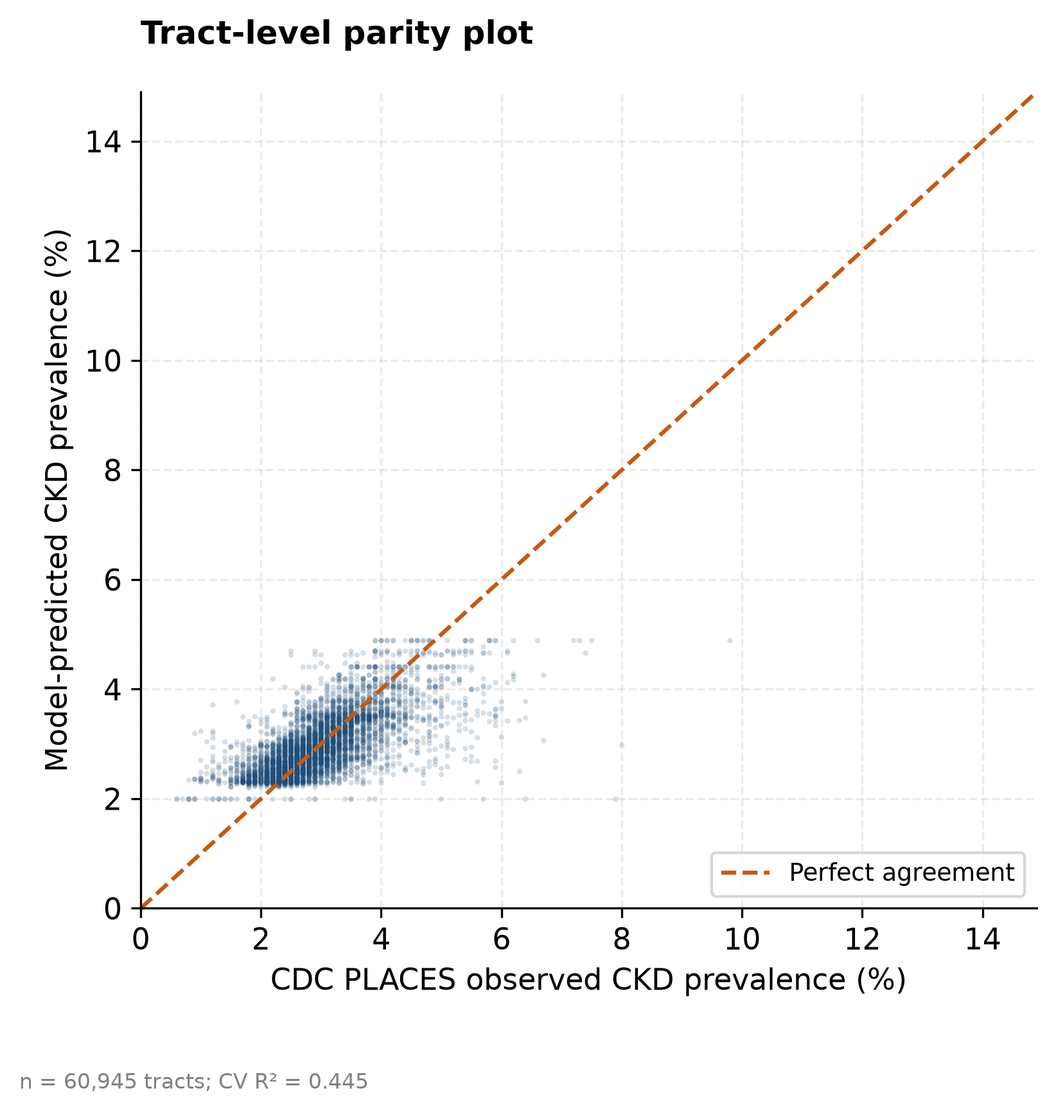
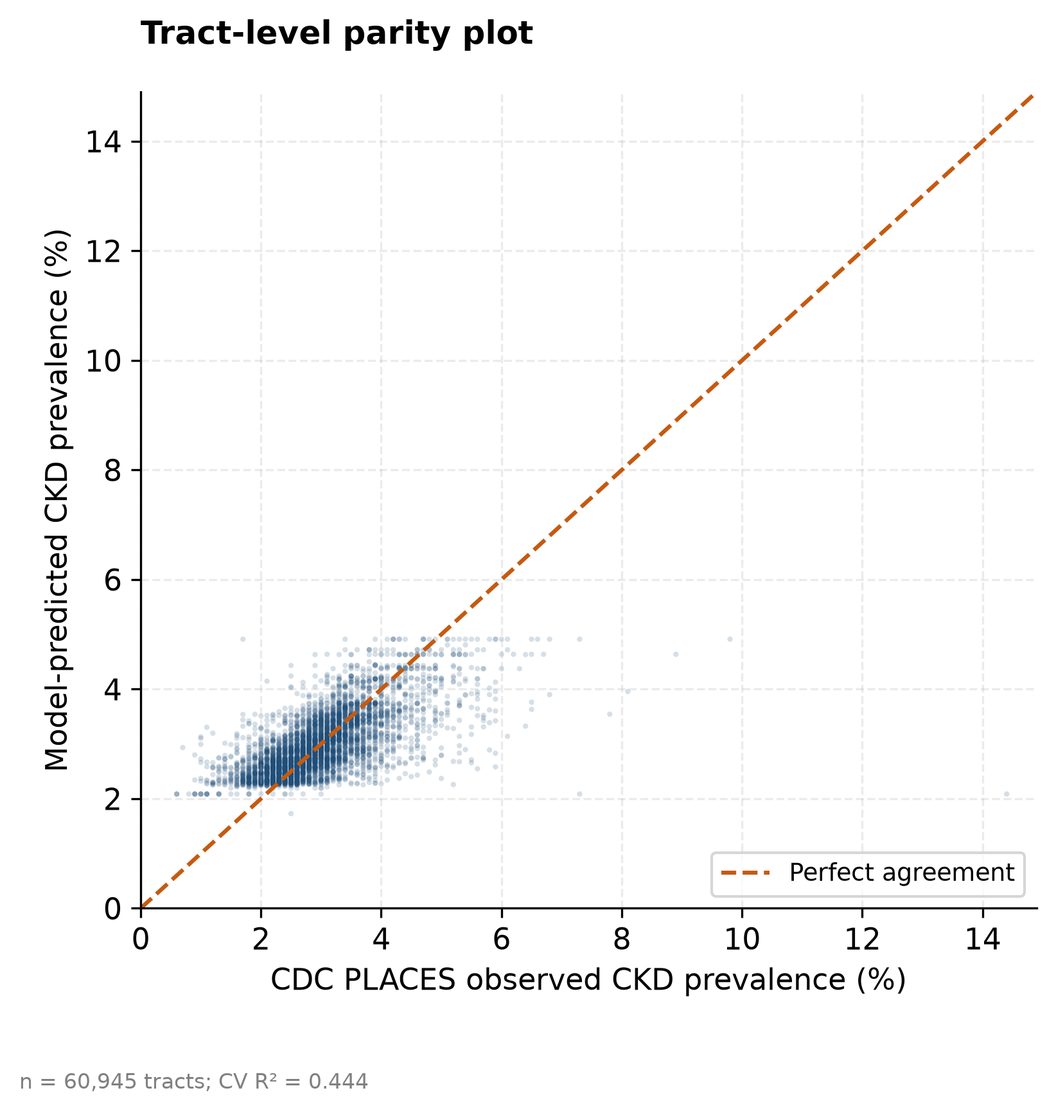
Stage 1: sort tracts before cross-validation; store metrics at 6 dp
The CDC PLACES export returns rows in an unstable order, and KFold folds
depend on row order, so Stage 1 results changed between downloads. Tracts
are now ordered by FIPS code after the join; outputs are identical for
differently ordered downloads. Manuscript Stage 1 values updated.

Changed region(s): [[0.1551, 0.5612, 0.5274, 0.7171]]

diff --git a/src/train_ecological_model.py b/src/train_ecological_model.py
@@ -166,6 +166,9 @@ def build_dataset():
     print(f"    ADI tract rows: {len(adi):,}")
 
     df = places.merge(adi, on="TractFIPS", how="inner")
+    # The PLACES export does not return rows in a stable order, and the CV
+    # folds depend on row order; sort so results do not depend on the download
+    df = df.sort_values("TractFIPS").reset_index(drop=True)
     print(f"\n  Joined PLACES ∩ ADI: {len(df):,} tracts")
     return df, source
 
@@ -197,8 +200,8 @@ def random_5fold(df):
         r2  = r2_score(y[va], pred)
         mae = mean_absolute_error(y[va], pred)
         rmse = np.sqrt(mean_squared_error(y[va], pred))
-        rows.append({"fold": k, "r2": round(r2, 4),
-                      "mae": round(mae, 4), "rmse": round(rmse, 4)})
+        rows.append({"fold": k, "r2": round(r2, 6),
+                      "mae": round(mae, 6), "rmse": round(rmse, 6)})
         print(f"    Fold {k}: R²={r2:.4f}  MAE={mae:.4f}  RMSE={rmse:.4f}")
     df["oof_pred"] = oof
     return pd.DataFrame(rows), df
@@ -230,13 +233,13 @@ def leave_one_region_out(df):
         rows.append({
             "held_out_region": region,
             "n_test": int(test_mask.sum()),
-            "r2":   round(r2_score(y_te, pred), 4),
-            "mae":  round(mean_absolute_error(y_te, pred), 4),
-            "rmse": round(np.sqrt(mean_squared_error(y_te, pred)), 4),
-            "calibration_slope": round(float(slope), 4),
-            "calibration_intercept": round(float(intercept), 4),
-            "calibration_slope_tract": round(float(t_slope), 4),
-            "calibration_intercept_tract": round(float(t_int), 4),
+            "r2":   round(r2_score(y_te, pred), 6),
+            "mae":  round(mean_absolute_error(y_te, pred), 6),
+            "rmse": round(np.sqrt(mean_squared_error(y_te, pred)), 6),
+            "calibration_slope": round(float(slope), 6),
+            "calibration_intercept": round(float(intercept), 6),
+            "calibration_slope_tract": round(float(t_slope), 6),
+            "calibration_intercept_tract": round(float(t_int), 6),
         })
         print(f"    Hold out {region:<10s}: R²={rows[-1]['r2']:.4f}  "
                f"MAE={rows[-1]['mae']:.4f}  cal_slope={rows[-1]['calibration_slope']:.3f}")
@@ -274,8 +277,8 @@ def capacity_sweep(df, settings=None):
         for tr, va in kf.split(X):
             _, pred = fit_xgb(X[tr], y[tr], X[va], y[va], **s)
             r2s.append(r2_score(y[va], pred))
-        rows.append({**s, "r2_mean": round(float(np.mean(r2s)), 4),
-                     "r2_std": round(float(np.std(r2s)), 4)})
+        rows.append({**s, "r2_mean": round(float(np.mean(r2s)), 6),
+                     "r2_std": round(float(np.std(r2s)), 6)})
         print(f"    {s}  →  R² = {rows[-1]['r2_mean']:.4f} ± {rows[-1]['r2_std']:.4f}")
     return pd.DataFrame(rows)
 
@@ -315,9 +318,9 @@ def spatial_and_feature_checks(df):
             _, pred = fit_xgb(X[tr], y[tr], X[va], y[va])
             oof[va] = pred
             r2s.append(r2_score(y[va], pred))
-        out[f"{name}_blocked_5fold_r2_mean"] = round(float(np.mean(r2s)), 4)
-        out[f"{name}_blocked_5fold_r2_std"] = round(float(np.std(r2s, ddof=1)), 4)
-        out[f"{name}_blocked_5fold_mae"] = round(float(mean_absolute_error(y, oof)), 4)
+        out[f"{name}_blocked_5fold_r2_mean"] = round(float(np.mean(r2s)), 6)
+        out[f"{name}_blocked_5fold_r2_std"] = round(float(np.std(r2s, ddof=1)), 6)
+        out[f"{name}_blocked_5fold_mae"] = round(float(mean_absolute_error(y, oof)), 6)
         print(f"    {name}-blocked: R² = {np.mean(r2s):.4f} ± {np.std(r2s, ddof=1):.4f}")
 
     X = df[["adi_natrank"]].values
@@ -325,13 +328,13 @@ def spatial_and_feature_checks(df):
     for tr, va in KFold(n_splits=5, shuffle=True, random_state=SEED).split(X):
         _, pred = fit_xgb(X[tr], y[tr], X[va], y[va])
         r2s.append(r2_score(y[va], pred))
-    out["natrank_only_random_5fold_r2_mean"] = round(float(np.mean(r2s)), 4)
-    out["natrank_only_random_5fold_r2_std"] = round(float(np.std(r2s, ddof=1)), 4)
+    out["natrank_only_random_5fold_r2_mean"] = round(float(np.mean(r2s)), 6)
+    out["natrank_only_random_5fold_r2_std"] = round(float(np.std(r2s, ddof=1)), 6)
     print(f"    national rank only: R² = {np.mean(r2s):.4f}")
 
     slope, intercept, _, _, _ = stats.linregress(df["oof_pred"], y)
-    out["calibration_slope_tract"] = round(float(slope), 4)
-    out["calibration_intercept_tract"] = round(float(intercept), 4)
+    out["calibration_slope_tract"] = round(float(slope), 6)
+    out["calibration_intercept_tract"] = round(float(intercept), 6)
     print(f"    tract-level calibration: slope = {slope:.4f}, intercept = {intercept:.4f}")
     return out
 
@@ -379,16 +382,16 @@ if __name__ == "__main__":
     metrics = {
         "n_tracts": int(len(df)),
         "adi_source": adi_source,
-        "random_5fold_r2_mean":  round(float(rand_results["r2"].mean()), 4),
-        "random_5fold_r2_std":   round(float(rand_results["r2"].std()), 4),
-        "random_5fold_mae_mean": round(float(rand_results["mae"].mean()), 4),
-        "calibration_slope":     round(cal_slope, 4),
-        "calibration_intercept": round(cal_intercept, 4),
-        "loro_r2_min": round(float(loro_results["r2"].min()), 4),
-        "loro_r2_max": round(float(loro_results["r2"].max()), 4),
+        "random_5fold_r2_mean":  round(float(rand_results["r2"].mean()), 6),
+        "random_5fold_r2_std":   round(float(rand_results["r2"].std()), 6),
+        "random_5fold_mae_mean": round(float(rand_results["mae"].mean()), 6),
+        "calibration_slope":     round(cal_slope, 6),
+        "calibration_intercept": round(cal_intercept, 6),
+        "loro_r2_min": round(float(loro_results["r2"].min()), 6),
+        "loro_r2_max": round(float(loro_results["r2"].max()), 6),
         # Rank agreement of out-of-fold predictions with PLACES (for tract
         # prioritization), reported alongside R² (point-estimate accuracy)
-        "spearman_rho_oof": round(float(stats.spearmanr(df["oof_pred"], df[TARGET])[0]), 4),
+        "spearman_rho_oof": round(float(stats.spearmanr(df["oof_pred"], df[TARGET])[0]), 6),
         **checks,
         "manuscript_target_r2": 0.444,
     }

diff --git a/docs/CKD_Paper_JMIR_PHS_v6_revised.md b/docs/CKD_Paper_JMIR_PHS_v6_revised.md
@@ -18,7 +18,7 @@ Ajit Sahu^1^, Sanjoy Mukherjee^2^, Kapil Kumar Reddy Poreddy^3^
 
 **Methods:** We conducted a cross-sectional secondary analysis of public data. In 2 separate, unlinked analyses, Stage 1 related tract-mean ADI to the CDC PLACES 2022 tract prevalence of self-reported diagnosed CKD in 60,945 US census tracts using gradient-boosted regression, evaluated with 5-fold and leave-one-Census-region-out cross-validation. Stage 2 used 15,150 adults from NHANES 2017–March 2020 and 2021–August 2023; the outcome was single-visit laboratory markers of CKD (race-free eGFR <60 mL/min/1.73 m² or urine albumin-to-creatinine ratio ≥30 mg/g). Predictors required no laboratory testing. The primary model, logistic regression, was compared with gradient boosting (XGBoost); 95% CIs were survey-design based.
 
-**Results:** Area deprivation explained 44.5% of between-tract variation in diagnosed CKD prevalence (cross-validated R²=0.445, SD 0.008; 0.415 using the national rank alone; mean absolute error 0.45 percentage points), and predictions were well calibrated (slope 0.998). Mean tract prevalence rose from 2.45% in the least-deprived ADI quintile to 3.90% in the most-deprived, a 1.6-fold gradient. Performance was lower when the Northeast (R²=0.232) or West (R²=0.251) was held out. In NHANES, 13.9% of adults had CKD markers, but only 3.0% reported diagnosed kidney disease, and awareness was not lower at lower income. The logistic regression classifier achieved an area under the receiver operating characteristic curve (AUROC) of 0.776 (95% CI 0.762–0.790), similar to XGBoost (difference −0.010, 95% CI −0.027 to 0.004), and was well calibrated (calibration slope 0.99, 95% CI 0.93–1.05; XGBoost 0.73). At 90% specificity, sensitivity was 45.6% (95% CI 42.8%–48.8%). AUROC was 0.72–0.81 across race/ethnicity groups, but at this threshold sensitivity ranged from 28% in other Hispanic to 58% in non-Hispanic Black adults, and was 7% in adults younger than 50 years.
+**Results:** Area deprivation explained 44.4% of between-tract variation in diagnosed CKD prevalence (cross-validated R²=0.444, SD 0.006; 0.414 using the national rank alone; mean absolute error 0.45 percentage points), and predictions were well calibrated (slope 0.997). Mean tract prevalence rose from 2.45% in the least-deprived ADI quintile to 3.90% in the most-deprived, a 1.6-fold gradient. Performance was lower when the Northeast (R²=0.232) or West (R²=0.253) was held out. In NHANES, 13.9% of adults had CKD markers, but only 3.0% reported diagnosed kidney disease, and awareness was not lower at lower income. The logistic regression classifier achieved an area under the receiver operating characteristic curve (AUROC) of 0.776 (95% CI 0.762–0.790), similar to XGBoost (difference −0.010, 95% CI −0.027 to 0.004), and was well calibrated (calibration slope 0.99, 95% CI 0.93–1.05; XGBoost 0.73). At 90% specificity, sensitivity was 45.6% (95% CI 42.8%–48.8%). AUROC was 0.72–0.81 across race/ethnicity groups, but at this threshold sensitivity ranged from 28% in other Hispanic to 58% in non-Hispanic Black adults, and was 7% in adults younger than 50 years.
 
 **Conclusions:** Area deprivation reproduces the deprivation gradient in diagnosed CKD and offers an open way to keep prioritizing neighborhoods now that tract-level estimates are discontinued, provided it is recalibrated by region. A published regression score without laboratory inputs identifies adults with CKD markers with moderate accuracy, but a single threshold misses far more cases in some groups than others, so thresholds and calibration need to be set locally. Neither tool replaces laboratory testing.
 
@@ -46,7 +46,7 @@ In Stage 2, individuals were the unit of analysis. We used the National Health a
 
 Block-group ADI ranks were averaged within each census tract (unweighted mean; the ADI file carries no population counts) to give three tract-level features: mean national rank, mean state rank, and mean ADI quintile, with each block group's quintile derived from its national rank (ranks 1–20 as quintile 1 through 81–100 as quintile 5). For quintile summaries, each tract was assigned to the quintile nearest its mean block-group quintile, so the 5 tract groups differ in size. The 3 features are therefore collinear by construction. Tracts were linked to PLACES by tract FIPS code. Block-group ADI values suppressed by the Neighborhood Atlas (group quarters, low population, or questionable data; 6,449 of 242,335 block groups) were treated as missing. Of the 72,337 PLACES tracts, 60,945 (84.3%) linked to an ADI tract, and 24,450 of the 85,395 ADI tracts (28.6%) had no PLACES match. In 499 linked tracts, every block group was suppressed; these tracts were retained in the model, which handles missing values natively, but have no ADI quintile and are omitted from quintile summaries. Most unlinked tracts are likely attributable to the difference in boundary vintage between the two products: the ADI uses 2020 Census geography and the PLACES 2022 tract files use 2010 Census tracts.
 
-We modelled tract CKD prevalence as a function of the three ADI features using gradient-boosted regression trees (XGBoost {{xgboost}}; 600 trees, maximum depth 5, learning rate 0.05, row and column subsampling 0.9). Hyperparameters were fixed in advance rather than tuned. As a robustness check, we refit the model across 5 configurations that varied the number of trees (200–1000), depth (3–7), and learning rate (0.10–0.03) together and, because such a ladder roughly holds effective capacity constant, also varied each of the 3 factors one at a time around the main configuration. We estimated performance with random 5-fold cross-validation and with leave-one-Census-region-out cross-validation. The latter trains on 3 of the 4 Census regions (Northeast, Midwest, South, West) and predicts the fourth, to test whether the deprivation–CKD relationship transfers between regions. We report R², mean absolute error (MAE), the Spearman rank correlation between predicted and observed prevalence, and calibration, summarized as the slope and intercept of observed on predicted prevalence across deciles of out-of-fold predictions and, because binning pulls the slope toward 1, from the tract-level regression of observed on predicted prevalence. We also report mean predicted and observed prevalence by ADI quintile. As sensitivity analyses, we repeated the 5-fold cross-validation with whole states and, separately, whole counties held out together, because neighboring tracts are spatially correlated, and with the national ADI rank as the only feature, because the national and state ranks together partly identify a tract's state.
+We modelled tract CKD prevalence as a function of the three ADI features using gradient-boosted regression trees (XGBoost {{xgboost}}; 600 trees, maximum depth 5, learning rate 0.05, row and column subsampling 0.9). Hyperparameters were fixed in advance rather than tuned. As a robustness check, we refit the model across 5 configurations that varied the number of trees (200–1000), depth (3–7), and learning rate (0.10–0.03) together and, because such a ladder roughly holds effective capacity constant, also varied each of the 3 factors one at a time around the main configuration. We estimated performance with random 5-fold cross-validation, with tracts ordered by FIPS code so that fold assignment does not depend on the order of the downloaded file, and with leave-one-Census-region-out cross-validation. The latter trains on 3 of the 4 Census regions (Northeast, Midwest, South, West) and predicts the fourth, to test whether the deprivation–CKD relationship transfers between regions. We report R², mean absolute error (MAE), the Spearman rank correlation between predicted and observed prevalence, and calibration, summarized as the slope and intercept of observed on predicted prevalence across deciles of out-of-fold predictions and, because binning pulls the slope toward 1, from the tract-level regression of observed on predicted prevalence. We also report mean predicted and observed prevalence by ADI quintile. As sensitivity analyses, we repeated the 5-fold cross-validation with whole states and, separately, whole counties held out together, because neighboring tracts are spatially correlated, and with the national ADI rank as the only feature, because the national and state ranks together partly identify a tract's state.
 
 ## Stage 2: Identifying Adults With CKD Without Laboratory Testing
 
@@ -76,21 +76,21 @@ This study was a secondary analysis of publicly available, deidentified data, an
 
 ## Stage 1: Area Deprivation Explains Much of the Neighborhood CKD Burden
 
-Across 60,945 linked census tracts, the three ADI features explained 44.5% of between-tract variation in CKD prevalence (cross-validated R²=0.445, SD 0.008 across folds). The mean absolute error was 0.45 percentage points (Figure 1; Table 1). Out-of-fold predictions were well calibrated, with a decile calibration slope of 0.998 and intercept of +0.007 percentage points (Figure 2). The Spearman rank correlation between predicted and observed tract prevalence was 0.675. The 2 measures are not contradictory: R² reflects squared prediction error relative to the total variance and is lowered when predictions are compressed toward the mean, whereas rank correlation is not affected by that compression (for reference, the square root of the cross-validated R² is 0.667). Rank correlation is the more directly relevant measure when the model is used to order tracts for prioritization. Across 5 configurations that varied the number of trees, tree depth, and learning rate together, R² ranged from 0.440 to 0.445 (Figure 3). Because that ladder raises tree count and depth while lowering the learning rate, it roughly holds effective capacity constant, so we also varied each factor separately around the main configuration; R² again ranged from 0.440 to 0.445 (Multimedia Appendix 1, Table S1). Within the range examined, the result is therefore not sensitive to these choices. The national ADI rank alone gave a cross-validated R² of 0.415 (SD 0.009), so most of the explained variation comes from national deprivation; the remainder partly reflects state membership, which the state and national ranks together reveal. Because neighboring tracts are correlated, we also held out whole states and whole counties in cross-validation; R² was 0.416 (SD 0.108 across folds) and 0.433 (SD 0.035), so spatial dependence inflated the random cross-validation estimate only modestly. The tract-level regression of observed on out-of-fold predicted prevalence had a slope of 0.997 and an intercept of 0.010 percentage points, consistent with the decile-based calibration.
+Across 60,945 linked census tracts, the three ADI features explained 44.4% of between-tract variation in CKD prevalence (cross-validated R²=0.444, SD 0.006 across folds). The mean absolute error was 0.45 percentage points (Figure 1; Table 1). Out-of-fold predictions were well calibrated, with a decile calibration slope of 0.997 and intercept of +0.008 percentage points (Figure 2). The Spearman rank correlation between predicted and observed tract prevalence was 0.675. The 2 measures are not contradictory: R² reflects squared prediction error relative to the total variance and is lowered when predictions are compressed toward the mean, whereas rank correlation is not affected by that compression (for reference, the square root of the cross-validated R² is 0.666). Rank correlation is the more directly relevant measure when the model is used to order tracts for prioritization. Across 5 configurations that varied the number of trees, tree depth, and learning rate together, R² ranged from 0.439 to 0.444 (Figure 3). Because that ladder raises tree count and depth while lowering the learning rate, it roughly holds effective capacity constant, so we also varied each factor separately around the main configuration; R² ranged from 0.440 to 0.444 (Multimedia Appendix 1, Table S1). Within the range examined, the result is therefore not sensitive to these choices. The national ADI rank alone gave a cross-validated R² of 0.414 (SD 0.006), so most of the explained variation comes from national deprivation; the remainder partly reflects state membership, which the state and national ranks together reveal. Because neighboring tracts are correlated, we also held out whole states and whole counties in cross-validation; R² was 0.416 (SD 0.108 across folds) and 0.433 (SD 0.035), so spatial dependence inflated the random cross-validation estimate only modestly. The tract-level regression of observed on out-of-fold predicted prevalence had a slope of 0.995 and an intercept of 0.014 percentage points, consistent with the decile-based calibration.
 
-Observed PLACES prevalence rose monotonically with deprivation, from a tract mean of 2.447% in the least-deprived ADI quintile to 3.901% in the most-deprived, a 1.6-fold difference (Table 2; Figure 4). Mean out-of-fold predicted prevalence was within 0.002 percentage points of observed prevalence in every quintile. This close agreement is expected despite an R² of 0.445: the quintile is itself a model input, so out-of-fold predictions reproduce each quintile's mean, which is the between-quintile component of variation, whereas R² is driven mainly by the much larger variation between tracts within the same quintile, which deprivation does not explain. The model also compresses the extremes of individual tracts (predicted values span roughly 2%–5%, against observed values of 0.5%–14.4%; Figure 1). The 3 Stage 1 features are collinear by construction: the quintile is a coarsening of the national rank, and the state rank re-ranks the same index within each state. Split-based feature importance is not interpretable under this collinearity, so we do not rank the features.
+Observed PLACES prevalence rose monotonically with deprivation, from a tract mean of 2.447% in the least-deprived ADI quintile to 3.901% in the most-deprived, a 1.6-fold difference (Table 2; Figure 4). Mean out-of-fold predicted prevalence was within 0.001 percentage points of observed prevalence in every quintile. This close agreement is expected despite an R² of 0.444: the quintile is itself a model input, so out-of-fold predictions reproduce each quintile's mean, which is the between-quintile component of variation, whereas R² is driven mainly by the much larger variation between tracts within the same quintile, which deprivation does not explain. The model also compresses the extremes of individual tracts (predicted values span roughly 2%–5%, against observed values of 0.5%–14.4%; Figure 1). The 3 Stage 1 features are collinear by construction: the quintile is a coarsening of the national rank, and the state rank re-ranks the same index within each state. Split-based feature importance is not interpretable under this collinearity, so we do not rank the features.
 
-The relationship transferred unevenly between regions (Figure 5). A model trained on the other 3 regions explained 41.6% of variation in the South and 40.9% in the Midwest, but only 25.1% in the West and 23.2% in the Northeast. Calibration slopes in the held-out regions were 0.69 (Northeast), 0.81 (West), 0.90 (Midwest), and 1.14 (South). A slope below 1 means that the deprivation gradient in that region is flatter than the national model assumes. The model therefore overestimates prevalence in that region's most-deprived tracts and underestimates it in the least-deprived. A slope above 1, as in the South, means the gradient is steeper than the national model assumes.
+The relationship transferred unevenly between regions (Figure 5). A model trained on the other 3 regions explained 41.7% of variation in the South and 40.9% in the Midwest, but only 25.3% in the West and 23.2% in the Northeast. Calibration slopes in the held-out regions were 0.69 (Northeast), 0.82 (West), 0.91 (Midwest), and 1.15 (South). A slope below 1 means that the deprivation gradient in that region is flatter than the national model assumes. The model therefore overestimates prevalence in that region's most-deprived tracts and underestimates it in the least-deprived. A slope above 1, as in the South, means the gradient is steeper than the national model assumes.
 
 **Table 1. Performance of the Stage 1 model for tract prevalence of diagnosed CKD (CDC PLACES 2022).**
 
 | Validation | Tracts, n | R² | MAE, percentage points | Calibration slope | Calibration intercept, percentage points |
 |---|---|---|---|---|---|
-| Random 5-fold cross-validation | 60,945 | 0.445 (SD 0.008) | 0.452 | 0.998 | +0.007 |
-| Held-out region: Northeast | 12,101 | 0.232 | 0.436 | 0.691 | +0.886 |
-| Held-out region: Midwest | 15,221 | 0.409 | 0.469 | 0.905 | +0.096 |
-| Held-out region: South | 20,305 | 0.416 | 0.520 | 1.142 | -0.241 |
-| Held-out region: West | 13,318 | 0.251 | 0.465 | 0.814 | +0.485 |
+| Random 5-fold cross-validation | 60,945 | 0.444 (SD 0.006) | 0.452 | 0.997 | +0.008 |
+| Held-out region: Northeast | 12,101 | 0.232 | 0.436 | 0.693 | +0.881 |
+| Held-out region: Midwest | 15,221 | 0.409 | 0.470 | 0.906 | +0.091 |
+| Held-out region: South | 20,305 | 0.417 | 0.520 | 1.145 | −0.248 |
+| Held-out region: West | 13,318 | 0.253 | 0.464 | 0.817 | +0.480 |
 
 *Out-of-fold predictions. Spearman rank correlation between predicted and observed tract prevalence (random 5-fold): 0.675. In leave-one-region-out validation the model is trained on the other 3 Census regions. Calibration slope and intercept are from the regression of observed on predicted prevalence across deciles of predicted prevalence.*
 
@@ -99,20 +99,20 @@ The relationship transferred unevenly between regions (Figure 5). A model traine
 | ADI quintile | Tracts, n | Observed, mean % | Predicted, mean % |
 |---|---|---|---|
 | 1 (least deprived) | 11,522 | 2.447 | 2.447 |
-| 2 | 13,120 | 2.603 | 2.603 |
-| 3 | 10,180 | 2.833 | 2.831 |
+| 2 | 13,120 | 2.603 | 2.602 |
+| 3 | 10,180 | 2.833 | 2.833 |
 | 4 | 14,541 | 3.195 | 3.195 |
-| 5 (most deprived) | 11,083 | 3.901 | 3.900 |
+| 5 (most deprived) | 11,083 | 3.901 | 3.901 |
 
 *499 linked tracts in which every block group was ADI-suppressed have no quintile and are not shown.*
 
 ![](../figures_phs/fig01_parity.png){width="6.0in"}
 
-*Figure 1. Out-of-fold predicted versus CDC PLACES–observed CKD prevalence for 60,945 census tracts. Each point is one tract; the dashed line indicates perfect agreement. Cross-validated R²=0.445.*
+*Figure 1. Out-of-fold predicted versus CDC PLACES–observed CKD prevalence for 60,945 census tracts. Each point is one tract; the dashed line indicates perfect agreement. Cross-validated R²=0.444.*
 
 ![](../figures_phs/fig02_stage1_calibration.png){width="6.0in"}
 
-*Figure 2. Calibration of the Stage 1 model: mean out-of-fold predicted versus observed CKD prevalence by decile of predicted prevalence (slope 0.998, intercept +0.007 percentage points).*
+*Figure 2. Calibration of the Stage 1 model: mean out-of-fold predicted versus observed CKD prevalence by decile of predicted prevalence (slope 0.997, intercept +0.008 percentage points).*
 
 ![](../figures_phs/fig04_capacity_sweep.png){width="6.0in"}
 
@@ -221,7 +221,7 @@ Using only public data, we found that area-level social risk, measured by the AD
 
 ## Comparison With Prior Work
 
-Our findings are consistent with prior evidence, which supports their validity, but they answer a different question. The 1.6-fold deprivation gradient in tract CKD prevalence lies within the 1.5- to 2.0-fold socioeconomic gradients reported in earlier individual-level and meta-analytic studies {{vart2015}}{{crews2010}}{{nicholas2015}}, although at the lower end of that range. Model shrinkage does not explain the position, because predicted and observed quintile means coincide. More plausible contributors are the smoothing inherent in PLACES small-area estimation, which pulls tract estimates toward values expected from their demographic composition {{zhang2014}}; the averaging of individual risk within tracts that contain residents of differing socioeconomic position; and the fact that PLACES measures diagnosed rather than total CKD. Under-ascertainment in self-report is large: in NHANES only about 1 in 8 adults with CKD markers (13.3%) reported diagnosed kidney disease. If awareness were lowest where deprivation is highest, the PLACES gradient would understate the true gradient. In NHANES, however, awareness was not lower at lower income, and the income gradient in self-reported kidney disease (ratio 1.91) was steeper than the gradient in CKD markers (1.59). Individual income is not area deprivation, and self-reported kidney disease may disproportionately capture advanced disease, which is more strongly socially patterned, so these data do not settle the direction of bias for tract-level estimates. They do show that the Stage 1 gradient should be read as a gradient in diagnosed CKD, which may differ in either direction from the gradient in total CKD. What is new is not the existence of the gradient but its use for surveillance: we quantify how much of the national small-area CKD map can be recovered from a deprivation index that continues to be published, and how well that relationship transfers between regions. This matters now because CDC PLACES discontinued its tract-level CKD measure {{places_notes}}. Our Stage 1 model is an ecological, interpretable stand-in for prioritizing neighborhoods rather than a replacement for multilevel small-area estimation {{zhang2014}}{{wakefield2020}}. The 55% of variation it does not explain, and its weaker performance in the Northeast and West, show where deprivation is an insufficient guide and where local data are needed.
+Our findings are consistent with prior evidence, which supports their validity, but they answer a different question. The 1.6-fold deprivation gradient in tract CKD prevalence lies within the 1.5- to 2.0-fold socioeconomic gradients reported in earlier individual-level and meta-analytic studies {{vart2015}}{{crews2010}}{{nicholas2015}}, although at the lower end of that range. Model shrinkage does not explain the position, because predicted and observed quintile means coincide. More plausible contributors are the smoothing inherent in PLACES small-area estimation, which pulls tract estimates toward values expected from their demographic composition {{zhang2014}}; the averaging of individual risk within tracts that contain residents of differing socioeconomic position; and the fact that PLACES measures diagnosed rather than total CKD. Under-ascertainment in self-report is large: in NHANES only about 1 in 8 adults with CKD markers (13.3%) reported diagnosed kidney disease. If awareness were lowest where deprivation is highest, the PLACES gradient would understate the true gradient. In NHANES, however, awareness was not lower at lower income, and the income gradient in self-reported kidney disease (ratio 1.91) was steeper than the gradient in CKD markers (1.59). Individual income is not area deprivation, and self-reported kidney disease may disproportionately capture advanced disease, which is more strongly socially patterned, so these data do not settle the direction of bias for tract-level estimates. They do show that the Stage 1 gradient should be read as a gradient in diagnosed CKD, which may differ in either direction from the gradient in total CKD. What is new is not the existence of the gradient but its use for surveillance: we quantify how much of the national small-area CKD map can be recovered from a deprivation index that continues to be published, and how well that relationship transfers between regions. This matters now because CDC PLACES discontinued its tract-level CKD measure {{places_notes}}. Our Stage 1 model is an ecological, interpretable stand-in for prioritizing neighborhoods rather than a replacement for multilevel small-area estimation {{zhang2014}}{{wakefield2020}}. The 56% of variation it does not explain, and its weaker performance in the Northeast and West, show where deprivation is an insufficient guide and where local data are needed.
 
 For individual screening, the most comparable tools are questionnaire-based scores. SCORED reported an AUROC of 0.88 in its NHANES 1999–2002 development data and 0.71 on external validation {{bang2007}}. However, it targeted only reduced eGFR and used a race-based eGFR equation, and two of its inputs, proteinuria and anemia, require laboratory results. Our classifier predicts the broader set of KDIGO 2024 markers, which includes albuminuria with preserved eGFR and is harder to detect from risk factors alone. It uses the race-free 2021 equation, contemporary NHANES data, and no laboratory inputs, and its accuracy (0.78) falls between SCORED's development and validation estimates. The Kshirsagar score {{kshirsagar2008}} is not directly comparable, because it predicts incident CKD over follow-up rather than CKD present at the time of screening. That logistic regression matched XGBoost agrees with a systematic review that found no average benefit of machine learning over logistic regression for clinical prediction models {{christodoulou2019}}. In practice, a health department can apply the published coefficients directly (Multimedia Appendix 1, Table S7), with no loss of accuracy relative to machine learning, although the score should still be checked against local data. A further contribution beyond earlier scores is the reporting of calibration and performance across income and race/ethnicity groups, with survey-design–based uncertainty.
 
@@ -281,13 +281,13 @@ ADI: Area Deprivation Index; AUPRC: area under the precision–recall curve; AUR
 
 | Trees | Depth | Learning rate | R², mean (SD across 5 folds) |
 |---|---|---|---|
-| 600 | 5 | 0.05 | 0.445 (0.007) |
-| 200 | 5 | 0.05 | 0.443 (0.007) |
-| 1000 | 5 | 0.05 | 0.444 (0.007) |
-| 600 | 3 | 0.05 | 0.440 (0.007) |
-| 600 | 7 | 0.05 | 0.443 (0.006) |
-| 600 | 5 | 0.01 | 0.442 (0.007) |
-| 600 | 5 | 0.10 | 0.444 (0.007) |
+| 600 | 5 | 0.05 | 0.444 (0.005) |
+| 200 | 5 | 0.05 | 0.442 (0.005) |
+| 1000 | 5 | 0.05 | 0.443 (0.005) |
+| 600 | 3 | 0.05 | 0.440 (0.005) |
+| 600 | 7 | 0.05 | 0.442 (0.005) |
+| 600 | 5 | 0.01 | 0.442 (0.005) |
+| 600 | 5 | 0.10 | 0.442 (0.005) |
 
 **Table S2. Missing data by predictor and multiple-imputation sensitivity analysis (n=15,150).**
 
